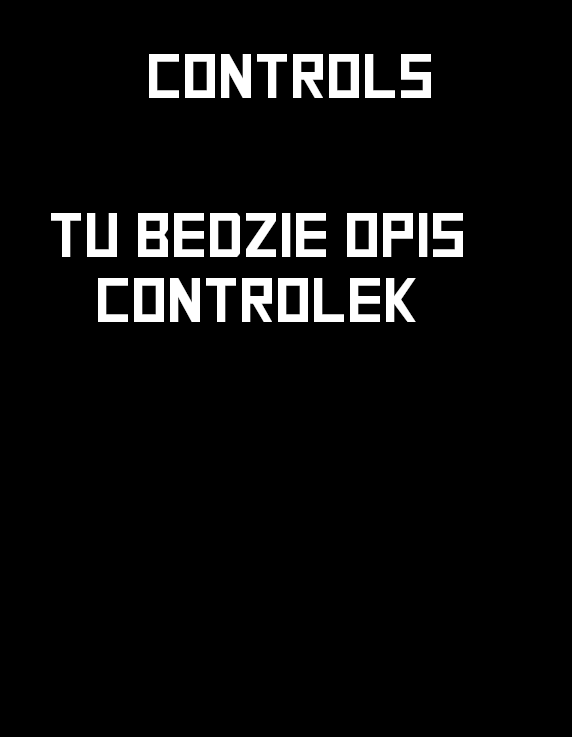
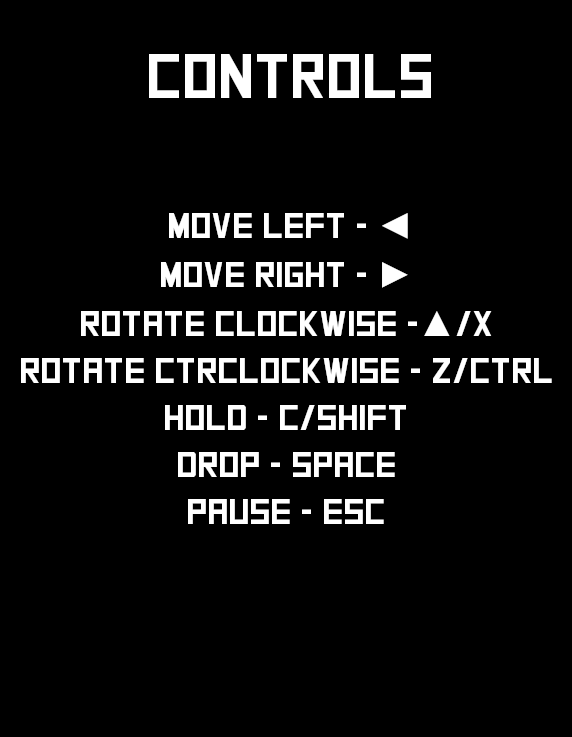
Added controls description and fixed control flow bugs

Changed region(s): [[0.0297, 0.2809, 0.9808, 0.7178]]

diff --git a/Core/StateMachine.cs b/Core/StateMachine.cs
@@ -21,13 +21,13 @@ public class StateMachine
         Game1.scene = new();
         Game1.scene.Initialize();
         state = GameState.running;
-        Game1.menus["start"].Disable();
+        DisableMenus();
         Game1.menus["ingame"].Enable();
     }
     public void Resume()
     {
         state = GameState.running;
-        Game1.menus["pause"].Disable();
+        DisableMenus();
         Game1.menus["ingame"].Enable();
     }
     public void UnPause()
@@ -40,7 +40,7 @@ public class StateMachine
         var score = Game1.scene.score;
         scores.Add(score);
         scores.Sort();
-        if (scores.Count > 5) scores.RemoveAt(0);
+        if (scores.Count > 10) scores.RemoveAt(0);
         scores.Reverse();
         var text = "";
         scores.ForEach(item => text += item.ToString() + ";");
@@ -49,29 +49,35 @@ public class StateMachine
 
     public void ToStartMenu()
     {
+        DisableMenus();
         Game1.menus["start"].Enable();
-        Game1.menus["ingame"].Disable();
         state = GameState.startMenu;
     }
     public void ToPauseMenu()
     {
         if (state == GameState.waiting) { ToStartMenu(); return; }
+        DisableMenus();
         Game1.menus["pause"].Enable();
-        Game1.menus["ingame"].Disable();
         state = GameState.pauseMenu;
     }
 
     public void ToControlsScreen()
     {
         state = GameState.controls;
-        Game1.menus["pause"].Disable();
+        DisableMenus();
         Game1.menus["controls"].Enable();
     }
 
     public void ToScoresScreen()
     {
         state = GameState.scores;
-        Game1.menus["start"].Disable();
+        DisableMenus();
         Game1.menus["scores"].Enable();
+    }
+    void DisableMenus()
+    {
+        foreach (var menu in Game1.menus) {
+            menu.Value.Disable();
+        }
     }
 }

diff --git a/Game1.cs b/Game1.cs
@@ -49,8 +49,16 @@ public class Game1 : Game
         Globals.mouse = new();
 
         gameState = new();
-
-        var read = File.ReadAllText("scores.txt").Trim().Split(";", StringSplitOptions.RemoveEmptyEntries);
+        string[] read;
+        try
+        {
+            read = File.ReadAllText("scores.txt").Trim().Split(";", StringSplitOptions.RemoveEmptyEntries);
+        }
+        catch
+        {
+            File.Create("scores.txt").Close();
+            read = Array.Empty<string>();
+        }
         foreach (var item in read)
         {
             gameState.scores.Add(int.Parse(item));
@@ -165,9 +173,11 @@ public class Game1 : Game
                 break;
             case StateMachine.GameState.scores:
                 menus["scores"].Draw(spriteBatch);
-                for(var i = 0; i < gameState.scores.Count(); i++)
+                for(var i = 1; i <= gameState.scores.Count; i++)
                 {
-                    spriteBatch.DrawString(Globals.font, gameState.scores[i].ToString(), new(20, i * 30), Color.White);
+                    spriteBatch.DrawString(Globals.fontbig, $"{i}.", new(200, 30 + i * 40), Color.White);
+                    spriteBatch.DrawString(Globals.fontbig, gameState.scores[i - 1].ToString(), new(430 - Globals.fontbig.MeasureString(gameState.scores[i - 1].ToString()).X, 30 + i * 40), Color.White);
+                    
                 }
                 break;
         }

diff --git a/Core/GameScene.cs b/Core/GameScene.cs
@@ -266,7 +266,7 @@ public class GameScene
         DrawSmallPiece(queue.ToArray()[0], Config.queuePosition + new Vector2(0, 10), spriteBatch);
 
         if (held is not null) DrawSmallPiece((PieceType)held, Config.heldPosition, spriteBatch);
-        if (Game1.gameState.state == GameState.waiting) spriteBatch.DrawString(Globals.fontbig, "GAME OVER", new(200, 300), Color.White);
+        if (Game1.gameState.state == GameState.waiting) spriteBatch.DrawString(Globals.fontbig, "GAME OVER", new(230, 320), Color.White);
     }
     void DrawSmallPiece(PieceType pieceType, Vector2 position, SpriteBatch spriteBatch)
     {

diff --git a/Buttons/PauseButton.cs b/Buttons/PauseButton.cs
@@ -15,11 +15,7 @@ class PauseButton : Button
     }
     public override void Initialize()
     {
-        if (text is not null)
-        {
-            bounds.Size = new(190, 65);
-            return;
-        }
+        if (text is not null) return;
         texture = Game1.textures["returnbutton"];
         bounds.Size = new(40, 40);
     }

diff --git a/Core/Button.cs b/Core/Button.cs
@@ -14,7 +14,7 @@ public abstract class Button
     protected Button(Vector2 position)
     {
         Globals.mouse.OnMouseButtonPressed += OnClick;
-        bounds = new(position, new Size2(100, 30));
+        bounds = new(position, new(230, 65));
     }
     public void Draw(SpriteBatch spriteBatch)
     {

diff --git a/Buttons/PlayButton.cs b/Buttons/PlayButton.cs
@@ -11,7 +11,7 @@ class PlayButton : Button
     public override void Initialize()
     {
         text = "NEW GAME";
-        bounds.Size = new(190, 65);
+        bounds.Size = new(230, 65);
     }
     protected override void Action()
     {

diff --git a/Buttons/ScoresButton.cs b/Buttons/ScoresButton.cs
@@ -11,7 +11,6 @@ class ScoresButton : Button
     public override void Initialize()
     {
         text = "HIGH SCORES";
-        bounds.Size = new(190, 65);
     }
     protected override void Action()
     {

diff --git a/Buttons/ControlsButton.cs b/Buttons/ControlsButton.cs
@@ -11,7 +11,6 @@ class ControlsButton : Button
     public override void Initialize()
     {
         text = "CONTROLS";
-        bounds.Size = new(190, 65);
     }
     protected override void Action()
     {

diff --git a/Buttons/ResumeButton.cs b/Buttons/ResumeButton.cs
@@ -11,7 +11,6 @@ class ResumeButton : Button
     public override void Initialize()
     {
         text = "RESUME";
-        bounds.Size = new(190, 65);
     }
     protected override void Action()
     {

diff --git a/Buttons/ReturnButton.cs b/Buttons/ReturnButton.cs
@@ -11,7 +11,6 @@ class ReturnButton : Button
     public override void Initialize()
     {
         text = "BACK";
-        bounds.Size = new(190, 65);
     }
     protected override void Action()
     {
